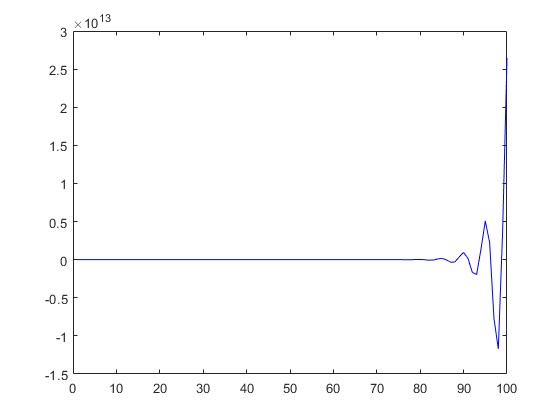
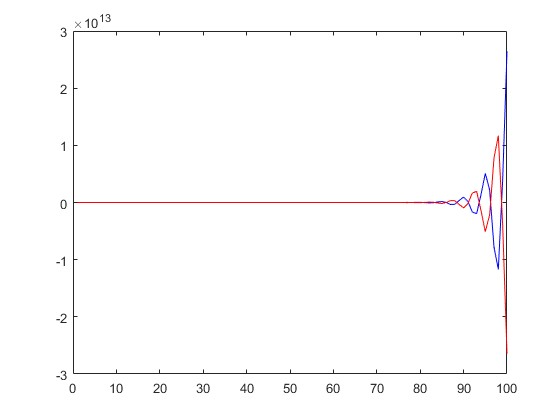
new plot

diff --git a/WI 24/MAE 143A/HW1p3.m b/WI 24/MAE 143A/HW1p3.m
@@ -39,4 +39,13 @@ d0 = b0/(-1*p(1)*p(2)*p(3));
 y = @(t) d1*exp(p(1)*t) + d2*exp(p(2)*t) + d3*exp(p(3)*t) + d0; % define our inverse laplace transform y'(t)
 plot(t,y(t),'b-')
 
-% equil point 2 has same poles as equil point 1 thus the same graph
+% equil point 2 has same poles as equil point 1
+hold on;
+b1 = -1*sqrt(47); b0 = -1*4*sqrt(47);
+d1 = (b1*p(1)+b0)/((p(1)-p(2))*(p(1)-p(3))*p(1));
+d2 = (b1*p(2)+b0)/((p(2)-p(1))*(p(2)-p(3))*p(2));
+d3 = (b1*p(3)+b0)/((p(3)-p(1))*(p(3)-p(2))*p(3));
+d0 = b0/(-1*p(1)*p(2)*p(3));
+
+y = @(t) d1*exp(p(1)*t) + d2*exp(p(2)*t) + d3*exp(p(3)*t) + d0;
+plot(t,y(t),'r-')
